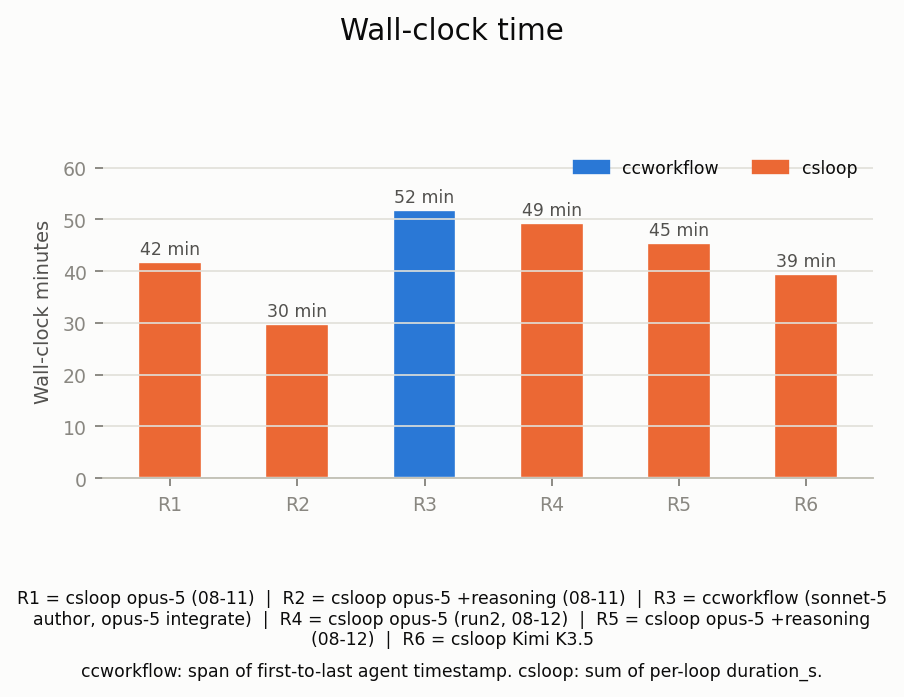
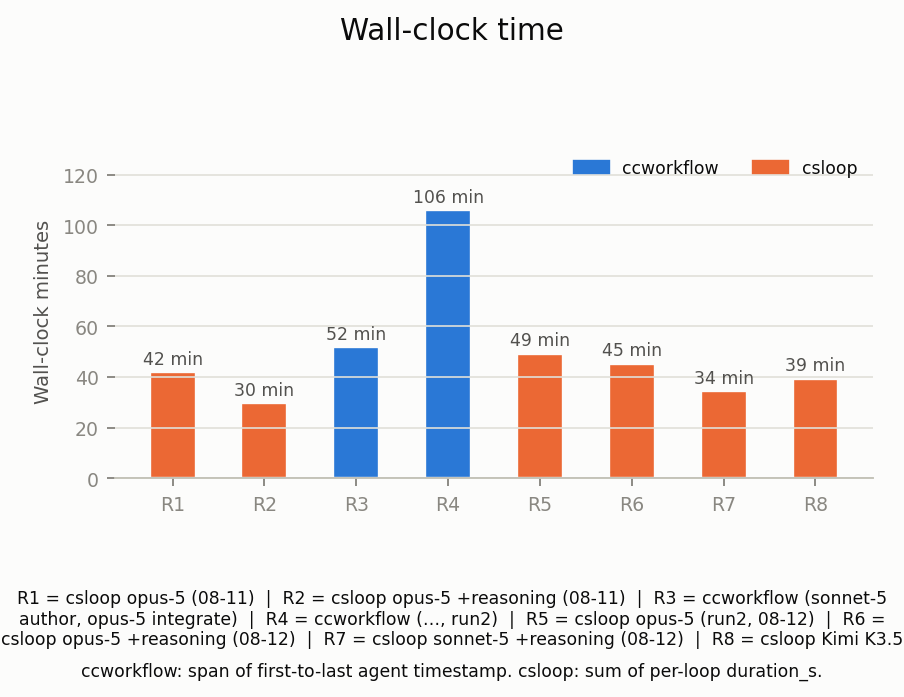
Update evals

diff --git a/evals/analysis/generate_graphs.py b/evals/analysis/generate_graphs.py
@@ -120,8 +120,10 @@ RUN_LABELS = {
     ("08-11-2026", "csloop-opus-5"): "csloop opus-5 (08-11)",
     ("08-11-2026", "csloop-opus-5-with-reasoning"): "csloop opus-5 +reasoning (08-11)",
     ("08-12-2026", "ccworkflow-sonnet-5-opus-5-integrate"): "ccworkflow (sonnet-5 author, opus-5 integrate)",
+    ("08-12-2026", "ccworkflow-sonnet-5-opus-5-integrate-run2"): "ccworkflow (sonnet-5 author, opus-5 integrate, run2)",
     ("08-12-2026", "codescribe-opus-5-run2"): "csloop opus-5 (run2, 08-12)",
     ("08-12-2026", "codescribe-opus-5-with-reasoning"): "csloop opus-5 +reasoning (08-12)",
+    ("08-12-2026", "codescribe-sonnet-5-with-reasoning"): "csloop sonnet-5 +reasoning (08-12)",
     ("08-12-2026", "codescribe-kimi-k3-5"): "csloop Kimi K3.5",
 }
 # Short x-axis codes — keeps bars legible even in the compact standalone
@@ -130,14 +132,17 @@ RUN_CODES = {
     ("08-11-2026", "csloop-opus-5"): "R1",
     ("08-11-2026", "csloop-opus-5-with-reasoning"): "R2",
     ("08-12-2026", "ccworkflow-sonnet-5-opus-5-integrate"): "R3",
-    ("08-12-2026", "codescribe-opus-5-run2"): "R4",
-    ("08-12-2026", "codescribe-opus-5-with-reasoning"): "R5",
-    ("08-12-2026", "codescribe-kimi-k3-5"): "R6",
+    ("08-12-2026", "ccworkflow-sonnet-5-opus-5-integrate-run2"): "R4",
+    ("08-12-2026", "codescribe-opus-5-run2"): "R5",
+    ("08-12-2026", "codescribe-opus-5-with-reasoning"): "R6",
+    ("08-12-2026", "codescribe-sonnet-5-with-reasoning"): "R7",
+    ("08-12-2026", "codescribe-kimi-k3-5"): "R8",
 }
 RUN_CODE_CAPTION = (
     "R1 = csloop opus-5 (08-11)  |  R2 = csloop opus-5 +reasoning (08-11)  |  "
-    "R3 = ccworkflow (sonnet-5 author, opus-5 integrate)  |  R4 = csloop opus-5 (run2, 08-12)  |  "
-    "R5 = csloop opus-5 +reasoning (08-12)  |  R6 = csloop Kimi K3.5"
+    "R3 = ccworkflow (sonnet-5 author, opus-5 integrate)  |  R4 = ccworkflow (…, run2)  |  "
+    "R5 = csloop opus-5 (run2, 08-12)  |  R6 = csloop opus-5 +reasoning (08-12)  |  "
+    "R7 = csloop sonnet-5 +reasoning (08-12)  |  R8 = csloop Kimi K3.5"
 )
 KEYS = list(RUN_LABELS.keys())
 
@@ -493,7 +498,8 @@ def draw_tool_calls_per_file_panel(ax, tool_calls_per_file, letter=None):
     ax.bar(x, per_file, width=0.5, color=colors, edgecolor=SURFACE, linewidth=1)
     for xi, k in zip(x, KEYS):
         v = tool_calls_per_file[k]
-        ax.text(xi, (v["per_file"] or 0) + max(per_file) * 0.03, f"{v['per_file']:.0f}",
+        label = f"{v['per_file']:.0f}" if v["per_file"] is not None else "n/a\n(0 files)"
+        ax.text(xi, (v["per_file"] or 0) + max(per_file) * 0.03, label,
                 ha="center", fontsize=ANNOT_SIZE, color=INK_SECONDARY)
     ax.set_xticks(x)
     ax.set_xticklabels(labels)

diff --git a/evals/analysis/summary_tables.md b/evals/analysis/summary_tables.md
@@ -7,8 +7,10 @@
 | csloop opus-5 (08-11) | $13.20 | 90% | 42 min | 26.7 | 15 | 2.8 min | $0.88 |
 | csloop opus-5 +reasoning (08-11) | $9.91 | 86% | 30 min | 15.7 | 20 | 1.5 min | $0.50 |
 | ccworkflow (sonnet-5 author, opus-5 integrate) | $114.15 | 96% | 52 min | 48.3 | 41 | 1.3 min | $2.78 |
+| ccworkflow (sonnet-5 author, opus-5 integrate, run2) | $65.28 | 94% | 106 min | 63.4 | 15 | 7.1 min | $4.35 |
 | csloop opus-5 (run2, 08-12) | $14.76 | 91% | 49 min | 22.5 | 19 | 2.6 min | $0.78 |
 | csloop opus-5 +reasoning (08-12) | $13.75 | 89% | 45 min | 27.4 | 14 | 3.2 min | $0.98 |
+| csloop sonnet-5 +reasoning (08-12) | $5.17 | 91% | 34 min | — | 0 | — | — |
 | csloop Kimi K3.5 | $0.00 (n/a, non-Anthropic) | 48% | 39 min | 68.8 | 5 | 7.9 min | n/a |
 
 ## Token usage, cost, cache & wall time detail
@@ -18,8 +20,10 @@
 | csloop opus-5 (08-11) | 191,401 | 139,874 | 718,075 | 8,523,810 | 90% | $13.20 | 42 min |
 | csloop opus-5 +reasoning (08-11) | 141,784 | 95,582 | 686,387 | 5,039,384 | 86% | $9.91 | 30 min |
 | ccworkflow (sonnet-5 author, opus-5 integrate) | 350,618 | 2,847,669 | 10,062,375 | 247,376,659 | 96% | $114.15 | 52 min |
+| ccworkflow (sonnet-5 author, opus-5 integrate, run2) | 94,947 | 1,354,040 | 6,870,860 | 111,300,406 | 94% | $65.28 | 106 min |
 | csloop opus-5 (run2, 08-12) | 217,433 | 148,767 | 789,671 | 10,046,165 | 91% | $14.76 | 49 min |
 | csloop opus-5 +reasoning (08-12) | 186,152 | 157,626 | 796,443 | 7,796,182 | 89% | $13.75 | 45 min |
+| csloop sonnet-5 +reasoning (08-12) | 187,693 | 129,013 | 703,545 | 8,733,778 | 91% | $5.17 | 34 min |
 | csloop Kimi K3.5 | 6,713,860 | 72,134 | 0 | 6,229,312 | 48% | $0.00 (+ tokens from oaic-moonshotai/Kimi-K3, not priced) | 39 min |
 
 ## Cost by model
@@ -29,8 +33,10 @@
 | csloop opus-5 (08-11) | $13.20 | $0.00 |
 | csloop opus-5 +reasoning (08-11) | $9.91 | $0.00 |
 | ccworkflow (sonnet-5 author, opus-5 integrate) | $17.23 | $96.92 |
+| ccworkflow (sonnet-5 author, opus-5 integrate, run2) | $20.18 | $45.09 |
 | csloop opus-5 (run2, 08-12) | $14.76 | $0.00 |
 | csloop opus-5 +reasoning (08-12) | $13.75 | $0.00 |
+| csloop sonnet-5 +reasoning (08-12) | $0.00 | $5.17 |
 | csloop Kimi K3.5 | $0.00 | $0.00 |
 
 ## csloop opus-5: +reasoning vs. run2 tool-call outcomes (08-12-2026)
@@ -47,6 +53,8 @@
 | csloop opus-5 (08-11) | stopped-at-gate | 272/272 |
 | csloop opus-5 +reasoning (08-11) | stopped-at-gate | 272/272 |
 | ccworkflow (sonnet-5 author, opus-5 integrate) | stopped-at-gate | — |
+| ccworkflow (sonnet-5 author, opus-5 integrate, run2) | stopped-at-gate | — |
 | csloop opus-5 (run2, 08-12) | stopped-at-gate | — |
 | csloop opus-5 +reasoning (08-12) | stopped-at-gate | 272/272 |
+| csloop sonnet-5 +reasoning (08-12) | stopped-at-gate | 272/272 |
 | csloop Kimi K3.5 | stopped-at-gate | — |
